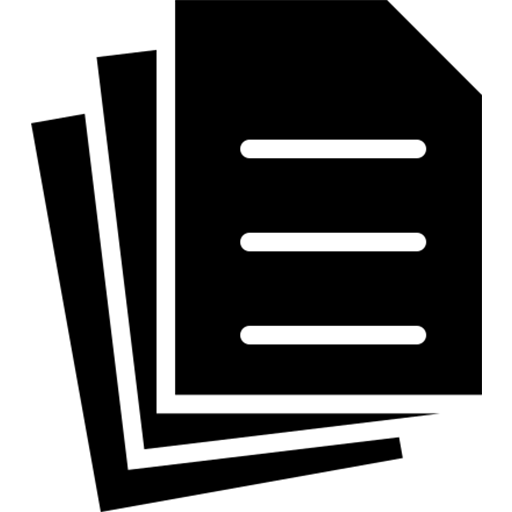
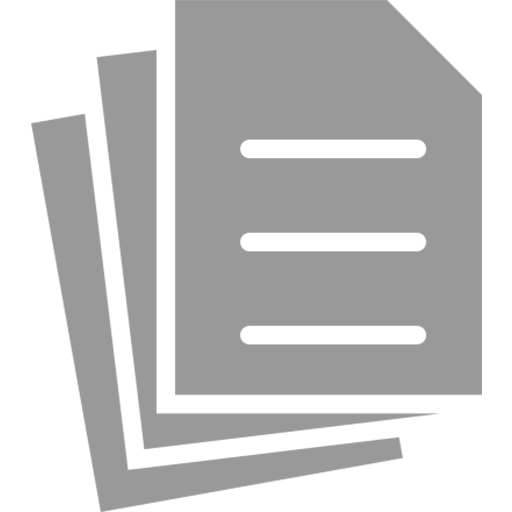
update styles

diff --git a/src/App.tsx b/src/App.tsx
@@ -15,6 +15,8 @@ import SettingsFocusedIcon from '../assets/settings_focused.png'
 
 const Tab = createBottomTabNavigator()
 
+const size = { width: 24, height: 24 }
+
 const App = () => {
   return (
     <NavigationContainer>
@@ -30,10 +32,10 @@ const App = () => {
             } else if (route.name === 'Settings') {
               icon = focused ? SettingsFocusedIcon : SettingsIcon
             }
-            return <Image source={icon} style={{ width: 25, height: 25 }} resizeMode="contain" />
+            return <Image source={icon} style={size} resizeMode="contain" />
           },
           tabBarActiveTintColor: '#0000FF',
-          tabBarInactiveTintColor: '#000000',
+          tabBarInactiveTintColor: '#999999',
         })}
       >
         <Tab.Screen name="Home" component={Home} />

diff --git a/src/Documents.tsx b/src/Documents.tsx
@@ -3,7 +3,14 @@ import { Text, View } from 'react-native'
 
 const Documents = () => {
   return (
-    <View style={{ flex: 1, justifyContent: 'center', alignItems: 'center' }}>
+    <View
+      style={{
+        flex: 1,
+        justifyContent: 'center',
+        alignItems: 'center',
+        backgroundColor: '#FFFFFF',
+      }}
+    >
       {/* <Text>Documents</Text> */}
     </View>
   )

diff --git a/src/Settings.tsx b/src/Settings.tsx
@@ -3,7 +3,14 @@ import { Text, View } from 'react-native'
 
 const Settings = () => {
   return (
-    <View style={{ flex: 1, justifyContent: 'center', alignItems: 'center' }}>
+    <View
+      style={{
+        flex: 1,
+        justifyContent: 'center',
+        alignItems: 'center',
+        backgroundColor: '#FFFFFF',
+      }}
+    >
       {/* <Text>Settings</Text> */}
     </View>
   )

diff --git a/src/Home.tsx b/src/Home.tsx
@@ -3,7 +3,14 @@ import { Text, View } from 'react-native'
 
 const Home = () => {
   return (
-    <View style={{ flex: 1, justifyContent: 'center', alignItems: 'center' }}>
+    <View
+      style={{
+        flex: 1,
+        justifyContent: 'center',
+        alignItems: 'center',
+        backgroundColor: '#FFFFFF',
+      }}
+    >
       {/* <Text>Home</Text> */}
     </View>
   )
